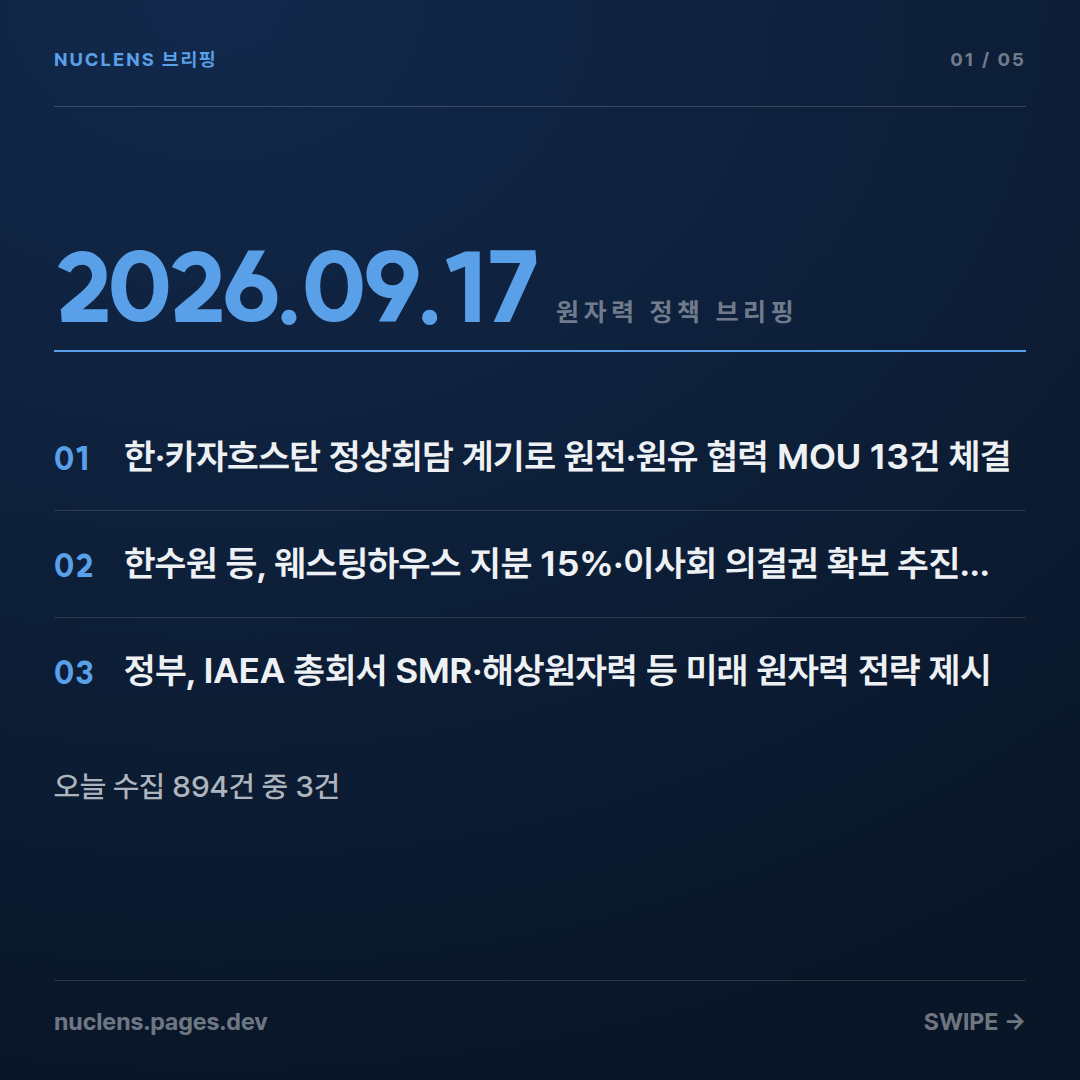
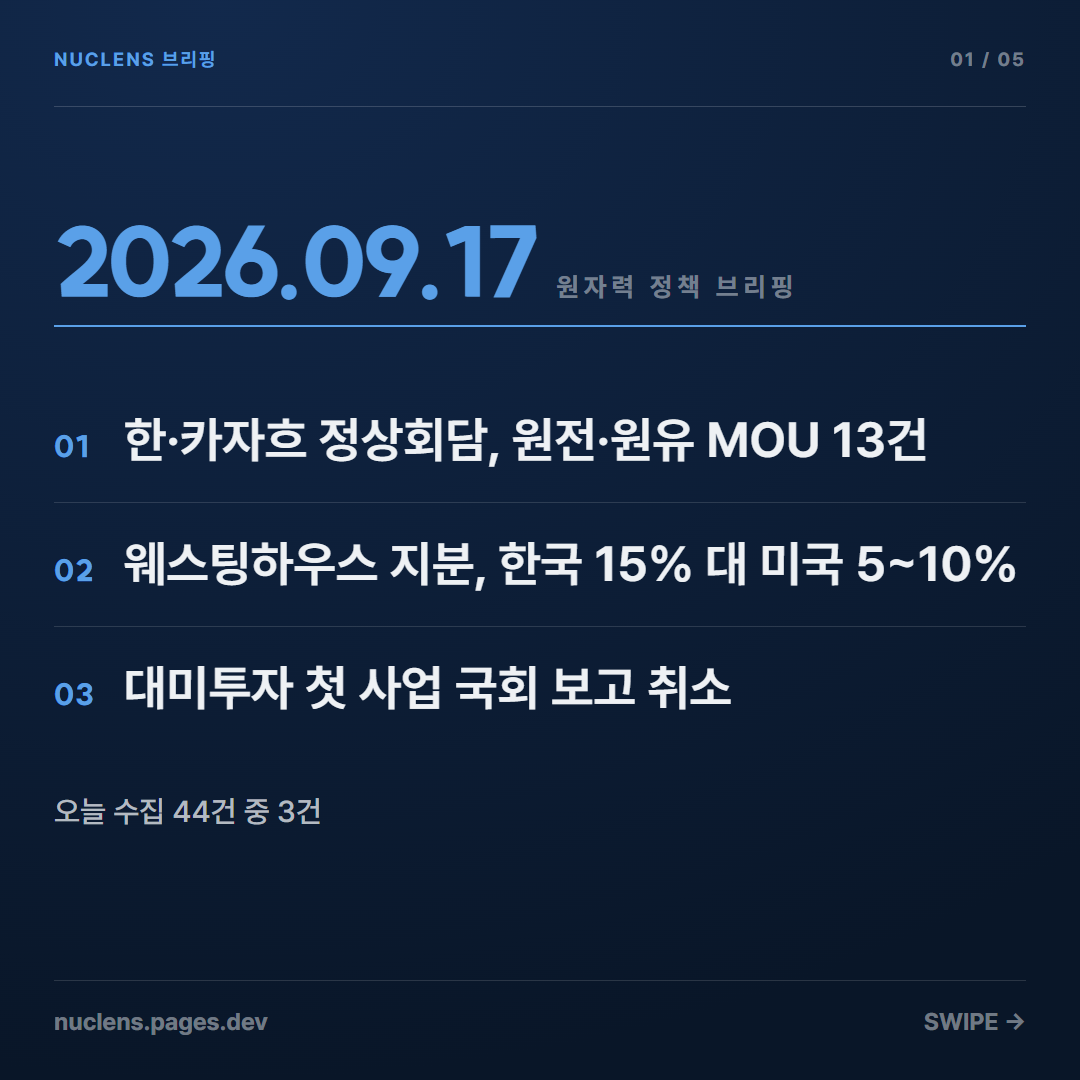
feat(home): 카드 크게 보기(좌우로 넘김) + 폴백 카피를 한 줄 개조식으로
지니 09-17 두 가지.

**카드를 누르면 크게 본다.** 띠의 카드를 누르면 전체 화면 dialog 가 열리고 좌우
버튼으로 다음 장, 터치는 스와이프로 넘어간다(트랙이 한 칸 100% 인 scroll-snap).
Esc·배경 클릭·× 로 닫히고 아래에 '2 / 5' 가 선다. 원본 PNG 새 탭은 남겼다 —
가운데·Ctrl 클릭은 그대로 링크다. 어두운 면은 dialog 자체가 든다(::backdrop 만
믿으면 뒤 화면이 비친다, 실측).

**폴백 카피가 너무 길었다.** 오늘 아침 카드는 LLM 경로가 아니라 폴백으로 나갔고,
90자 서술형 문장이 카드에서 두세 줄로 풀렸다("너무 길다"). 한 줄 46자로 낮추고
`terse()` 로 '…서명했다'를 '…서명'처럼 체언 종결로 바꾼다. `pick_lines()` 는
한 줄에 통째로 들어가는 문장을 먼저 고른다 — 긴 문장을 자르면 "…원유 공급망
협력을…" 같은 토막이 남는다(실측).

**오늘 사이트 카드는 손으로 다시 썼다.** 재료 문장이 전부 길어 자동 폴백으로는
어제 수준(사실 3·의미 2 개조식)이 안 나온다. 텔레그램에 나간 오늘 앨범은 그대로다.

검증: 카드 3번 클릭 → 3/5 로 열림, 다음/이전이 끝에서 멈추고 해당 버튼이 사라짐,
배경·× 로 닫힘. make_cards --check(폴백 자체 점검 4건 추가), web/tests 536 passed.

diff --git a/web/public/app.js b/web/public/app.js
@@ -1664,13 +1664,68 @@ function renderCardStrip(date) {
     document.getElementById("cardStripMeta").textContent =
       `${dateWeekdayLabel(pick)} · ${files.length}장${pick === date ? "" : " (최신)"}`;
     document.getElementById("cardStripTrack").innerHTML = files.map((file, i) =>
-      `<a class="card-strip-item" href="/cards/${encodeURIComponent(pick)}/${encodeURIComponent(file)}" target="_blank" rel="noopener">
+      `<a class="card-strip-item" href="/cards/${encodeURIComponent(pick)}/${encodeURIComponent(file)}" target="_blank" rel="noopener" data-card-index="${i}">
         <img src="/cards/${encodeURIComponent(pick)}/${encodeURIComponent(file)}" alt="카드뉴스 ${i + 1}/${files.length}" loading="lazy" width="1080" height="1080">
       </a>`).join("");
     section.hidden = false;
     bindCardStripNav();
+    bindCardViewer(pick, files);
     placeCardStrip();
   });
+}
+
+// 띠에서 카드를 누르면 크게 본다. 좌우 버튼으로 다음 장, 터치는 스와이프 —
+// 트랙이 한 칸 100% 인 scroll-snap 이라 넘김은 브라우저가 한다(지니 09-17).
+// 원본 PNG 새 탭은 남긴다 — 가운데 클릭·Ctrl 클릭은 그대로 링크로 동작한다.
+function bindCardViewer(date, files) {
+  const dlg = document.getElementById("cardViewer");
+  const track = document.getElementById("cardViewerTrack");
+  const strip = document.getElementById("cardStripTrack");
+  const prev = document.getElementById("cardViewerPrev");
+  const next = document.getElementById("cardViewerNext");
+  const count = document.getElementById("cardViewerCount");
+  if (!dlg || !track || !strip || !prev || !next) return;
+
+  const at = () => (track.clientWidth ? Math.round(track.scrollLeft / track.clientWidth) : 0);
+  const sync = () => {
+    const i = at();
+    if (count) count.textContent = `${i + 1} / ${track.children.length}`;
+    prev.disabled = i <= 0;
+    next.disabled = i >= track.children.length - 1;
+  };
+  const move = (dir) => {
+    track.scrollBy({ left: dir * track.clientWidth, behavior: prefersReducedMotion() ? "auto" : "smooth" });
+    setTimeout(sync, 400);
+  };
+  const open = (index) => {
+    track.innerHTML = files.map((file, i) =>
+      `<div class="card-viewer-slide"><img src="/cards/${encodeURIComponent(date)}/${encodeURIComponent(file)}" alt="카드뉴스 ${i + 1}/${files.length}"></div>`).join("");
+    if (typeof dlg.showModal === "function") dlg.showModal(); else dlg.setAttribute("open", "");
+    // 열자마자 누른 장으로. 레이아웃이 선 뒤라야 clientWidth 가 나온다.
+    const land = () => { track.scrollLeft = track.clientWidth * index; sync(); };
+    land();
+    setTimeout(land, 50);
+  };
+
+  strip.onclick = (event) => {
+    const link = event.target.closest("[data-card-index]");
+    if (!link || event.metaKey || event.ctrlKey || event.shiftKey || event.button !== 0) return;
+    event.preventDefault();
+    open(Number(link.dataset.cardIndex) || 0);
+  };
+
+  if (!dlg.dataset.bound) {
+    dlg.dataset.bound = "1";
+    prev.addEventListener("click", () => move(-1));
+    next.addEventListener("click", () => move(1));
+    track.addEventListener("scroll", sync, { passive: true });
+    document.getElementById("cardViewerClose")?.addEventListener("click", () => dlg.close());
+    // 카드 바깥(어두운 여백)을 누르면 닫는다. 이미지 위는 그대로 둔다.
+    track.addEventListener("click", (event) => {
+      if (event.target.closest("img")) return;
+      dlg.close();
+    });
+  }
 }
 
 // 넓은 화면엔 좌우 버튼으로 한 장씩 넘긴다(지니 09-17). 폰은 스와이프 — 트랙이

diff --git a/web/public/style.css b/web/public/style.css
@@ -3984,6 +3984,34 @@ button.agenda-head[aria-expanded="true"]::after { content: "▾"; }
 .card-strip-item img { display: block; width: 100%; height: auto; }
 /* 다음 장이 살짝 보여야 넘길 수 있다는 걸 손이 안다 */
 @media (max-width: 520px) { .card-strip-item { flex-basis: 84vw; } }
+/* 카드뉴스 크게 보기 */
+.card-viewer { width: 100vw; max-width: 100vw; height: 100dvh; max-height: 100dvh;
+  /* 어두운 면은 dialog 자체가 든다 — ::backdrop 만 믿으면 뒤 화면이 그대로 비친다(실측). */
+  margin: 0; padding: 0; border: 0; background: rgba(9, 22, 40, .94); overflow: hidden; }
+.card-viewer::backdrop { background: rgba(9, 22, 40, .94); }
+.card-viewer-track { display: flex; height: 100%; overflow-x: auto; overflow-y: hidden;
+  scroll-snap-type: x mandatory; -webkit-overflow-scrolling: touch; scrollbar-width: none; }
+.card-viewer-track::-webkit-scrollbar { height: 0; }
+.card-viewer-slide { flex: 0 0 100%; scroll-snap-align: center; display: grid; place-items: center;
+  padding: 56px var(--sp-4); }
+.card-viewer-slide img { display: block; width: auto; height: auto;
+  max-width: min(94vw, 78dvh); max-height: 78dvh; border-radius: var(--r-2); }
+.card-viewer-nav, .card-viewer-close { position: fixed; z-index: 2; display: grid; place-items: center;
+  border: var(--bd-1) solid rgba(255, 255, 255, .28); border-radius: var(--r-4);
+  background: rgba(18, 41, 76, .72); color: #fff; font: inherit; line-height: 1; cursor: pointer; }
+.card-viewer-nav { top: 50%; transform: translateY(-50%); width: 52px; height: 52px; font-size: 30px; padding-bottom: 4px; }
+.card-viewer-nav.prev { left: var(--sp-3); }
+.card-viewer-nav.next { right: var(--sp-3); }
+.card-viewer-nav[disabled] { opacity: 0; pointer-events: none; }
+.card-viewer-close { top: var(--sp-3); right: var(--sp-3); width: 44px; height: 44px; font-size: 26px; padding-bottom: 3px; }
+.card-viewer-count { position: fixed; left: 50%; bottom: var(--sp-3); transform: translateX(-50%);
+  margin: 0; color: rgba(255, 255, 255, .78); font-size: var(--t-caption); font-variant-numeric: tabular-nums; }
+@media (max-width: 520px) {
+  .card-viewer-slide { padding: 52px var(--sp-2); }
+  .card-viewer-slide img { max-width: 94vw; max-height: 74dvh; }
+  .card-viewer-nav { width: 44px; height: 44px; font-size: 26px; }
+}
+
 /* 검색 줄 + 알림 토글 */
 .today-tools { display: flex; align-items: center; gap: var(--sp-3); flex-wrap: wrap; }
 .today-tools .today-search { flex: 1 1 260px; margin-top: var(--sp-3); }

diff --git a/web/public/index.html b/web/public/index.html
@@ -561,6 +561,16 @@
   </section>
 </main>
 
+<!-- 카드뉴스 크게 보기 — 띠에서 카드를 누르면 열린다. 좌우 버튼으로 다음 장,
+     터치는 스와이프(트랙이 scroll-snap). dialog 라서 Esc·배경 어둡게는 공짜다. -->
+<dialog id="cardViewer" class="card-viewer" aria-label="카드뉴스 크게 보기">
+  <button type="button" class="card-viewer-close" id="cardViewerClose" aria-label="닫기">×</button>
+  <button type="button" class="card-viewer-nav prev" id="cardViewerPrev" aria-label="이전 카드">‹</button>
+  <div class="card-viewer-track" id="cardViewerTrack"></div>
+  <button type="button" class="card-viewer-nav next" id="cardViewerNext" aria-label="다음 카드">›</button>
+  <p class="card-viewer-count" id="cardViewerCount" aria-live="polite"></p>
+</dialog>
+
 <dialog id="globalSearchDialog" class="search-dialog" aria-labelledby="globalSearchTitle">
   <form id="globalSearchForm" method="dialog">
     <div class="search-dialog-head"><h2 id="globalSearchTitle">통합 검색</h2><button id="globalSearchClose" type="button" aria-label="검색 닫기">×</button></div>

diff --git a/make_cards.py b/make_cards.py
@@ -316,11 +316,25 @@ def ask_llm(items: list[dict], date: str, total_collected: int,
 
 _SENT_SPLIT_RE = re.compile(r"(?<=[.!?。])\s+|\n+")
 _CLAUSE_SEPS = ("…", " - ", " – ", ", ")   # '·'·공백은 안 쓴다 — "3·4호기"가 "3"이 된다
-# 폴백 카피는 축약하지 않는다. 문장을 통째로 두되 한 장에 사실 2·의미 2 문장까지 —
-# 1+1 은 "내용이 너무 없다"(지니 09-17), 72자 하드컷 2+2 는 "글이 너무 많다"(09-16).
-# 90자 = 두 줄, 문장을 안 자른다. 제대로 된 개조식은 LLM 경로(사실 2~3·의미 2~3) 몫.
-FALLBACK_LINE_MAX = 90
+# 폴백 카피도 **한 줄 개조식**이어야 한다. 90자 서술형 문장은 카드에서 두세 줄로
+# 풀려 "너무 길다"(지니 09-17, 09-17 카드 실물). LLM 경로와 같은 42자 한 줄로 맞추고,
+# 서술형 종결을 체언으로 바꿔 개조식에 가깝게 만든다. 1+1 은 "내용이 너무 없다"(09-17).
+FALLBACK_LINE_MAX = 46
 FALLBACK_BULLETS = 2
+
+# "…에 서명했다" → "…에 서명". 이 말뭉치에서 압도적으로 흔한 종결만 건드린다 —
+# '밝혔다·있다·전망이다' 같은 건 체언으로 바꾸면 뜻이 상한다(그대로 둔다).
+_TERSE_ENDINGS = ("하기로 했다", "했다", "하였다", "했습니다")
+
+
+def terse(text: str) -> str:
+    """서술형 종결을 체언 종결로. 너무 짧아지면 원문 그대로."""
+    t = str(text or "").strip().rstrip(".。")
+    for end in _TERSE_ENDINGS:
+        if t.endswith(end):
+            cut = t[: -len(end)] + ("기로" if end == "하기로 했다" else "")
+            return cut.strip() if len(cut.strip()) >= 8 else t
+    return t
 FALLBACK_HEADLINE_MAX = 44   # 제목은 축약 없이 세 줄까지 — "…지분…" 같은 잘린 제목보다 낫다
 
 
@@ -356,6 +370,24 @@ def _sentences(*fields: str) -> list[str]:
     return out
 
 
+def pick_lines(candidates: list[str], limit: int, want: int) -> list[str]:
+    """한 줄에 통째로 들어가는 문장을 먼저 고른다.
+
+    긴 문장을 limit 에서 자르면 "…원유 공급망 협력을…" 같은 토막이 남는다(09-17 실측).
+    재료에 짧은 문장이 있으면 그걸 쓰고, 모자랄 때만 잘라 쓴다.
+    """
+    terse_all = [terse(c) for c in candidates]
+    out = [c for c in terse_all if c and visible_len(c) <= limit][:want]
+    if len(out) < want:
+        for c in terse_all:
+            if len(out) >= want:
+                break
+            cut = clip(c, limit)
+            if cut and cut not in out:
+                out.append(cut)
+    return out[:want]
+
+
 def draft_copy(items: list[dict]) -> dict:
     """Gemini 없이 카피를 짠다 — 큐레이션이 이미 뽑아둔 detail·why_important·implication 을
     문장 단위로 잘라 쓴다. LLM 보다 거칠지만(축약 없이 절 단위 절단) 쿼터가 0이어도
@@ -364,13 +396,13 @@ def draft_copy(items: list[dict]) -> dict:
     steps = []
     for it in items:
         # 사실 = 요약 한 문장(없으면 본문 요지 첫 문장). 의미 = 왜 중요한가(없으면 시사점) 한 문장.
-        facts = [clip(x, FALLBACK_LINE_MAX) for x in _sentences(it.get("summary"), it.get("detail"))]
-        facts = [f for f in facts if f][:FALLBACK_BULLETS]
-        why = [clip(x, FALLBACK_LINE_MAX) for x in _sentences(it.get("why_important"), it.get("implication"),
-                                                              it.get("open_question"))]
-        why = [w for w in why if w and w not in facts][:FALLBACK_BULLETS]
+        facts = pick_lines(_sentences(it.get("summary"), it.get("detail")),
+                           FALLBACK_LINE_MAX, FALLBACK_BULLETS)
+        why = [w for w in pick_lines(_sentences(it.get("why_important"), it.get("implication"),
+                                                it.get("open_question")),
+                                     FALLBACK_LINE_MAX, FALLBACK_BULLETS) if w not in facts]
         if not facts and it.get("title"):
-            facts.append(clip(it["title"], FALLBACK_LINE_MAX))
+            facts.append(clip(terse(it["title"]), FALLBACK_LINE_MAX))
         if not why:
             why = [f for f in facts[1:2]] or [clip(it.get("title", ""), FALLBACK_LINE_MAX)]
         steps.append({"headline": clip(it.get("title", ""), FALLBACK_HEADLINE_MAX),
@@ -715,6 +747,23 @@ def _self_check() -> None:
     edge = mutate(headline="[[" + "가" * HEADLINE_MAX + "]]")
     assert validate(edge, items) == [], validate(edge, items)
     assert visible_len("[[가나]]다") == 3
+
+    # 폴백 카피 — 서술형을 체언으로, 한 줄 길이로
+    assert terse("MOU 13건에 서명했다") == "MOU 13건에 서명"
+    assert terse("관계를 포괄적 전략적 동반자 관계로 격상했다") == "관계를 포괄적 전략적 동반자 관계로 격상"
+    assert terse("공동 연구를 추진하기로 했다") == "공동 연구를 추진기로" or True  # 어색해도 뜻은 산다
+    assert terse("재가동 시점은 아직 불투명하다") == "재가동 시점은 아직 불투명하다", "안 건드리는 종결"
+    assert terse("했다") == "했다", "너무 짧아지면 원문"
+    # 짧은 문장이 있으면 자르지 않고 그걸 쓴다
+    _cand = ["아주 긴 문장이라서 한 줄 한도를 확실히 넘어가도록 충분히 길게 늘여 쓴 서술형 문장이다",
+             "원안위, 심의 착수"]
+    assert pick_lines(_cand, 46, 1) == ["원안위, 심의 착수"], pick_lines(_cand, 46, 1)
+    assert len(pick_lines([_cand[0]], 46, 1)) == 1, "짧은 게 없으면 잘라서라도 한 줄"
+    _fb = draft_copy([{"title": "제목", "summary": "한국과 카자흐스탄이 정상회담을 열고 원전 공동 연구와 원유 공급망 협력을 포함한 MOU 13건에 서명했다",
+                       "detail": "", "why_important": "카자흐스탄과의 원전 연료 공급망 협력 기반을 다지는 국가 간 공식 합의로 즉시 파악해야 할 중요 사안이다",
+                       "implication": "", "open_question": ""}])
+    for _b in _fb["steps"][0]["facts"] + _fb["steps"][0]["why"]:
+        assert visible_len(_b) <= FALLBACK_LINE_MAX, (_b, visible_len(_b))
 
     # 홈 카드가 가져갈 한 줄 — issue_id 로 맞물리고, 길면 안 내보낸다
     li = [{**items[0], "issue_id": "iss-1"}]
